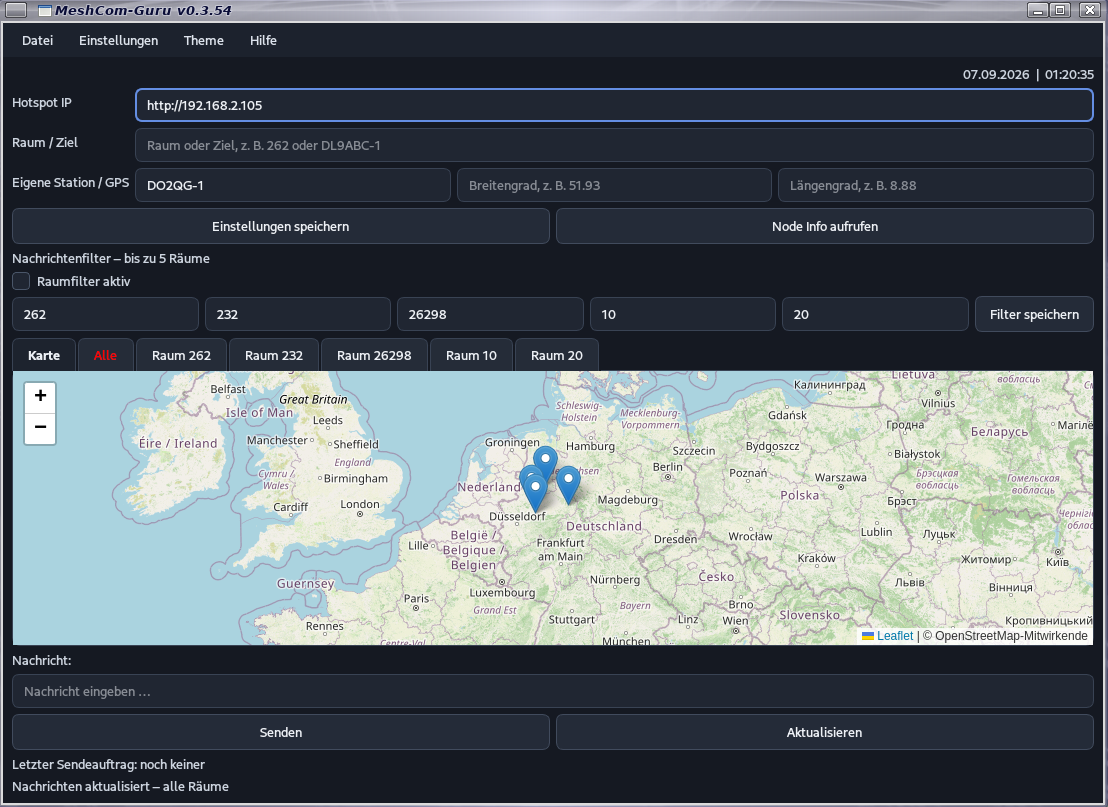
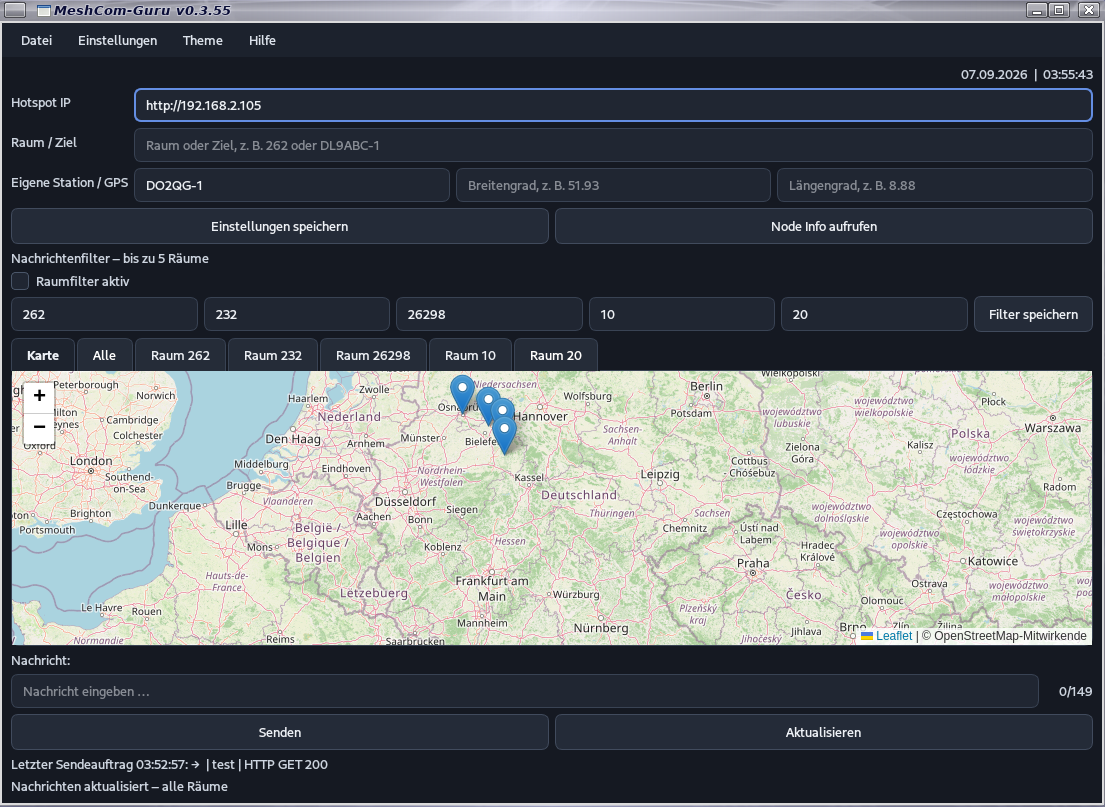
Add files via upload

diff --git a/ui/main_window.py b/ui/main_window.py
@@ -20,7 +20,7 @@ try:
     from PySide6.QtMultimedia import QSoundEffect
 except Exception:
     QSoundEffect = None
-from PySide6.QtGui import QAction, QTextCursor
+from PySide6.QtGui import QAction, QTextCursor, QDesktopServices
 from PySide6.QtWidgets import (
     QApplication,
     QComboBox,
@@ -235,7 +235,7 @@ class ChatView(QTextBrowser):
             call = value.rsplit("/", 1)[-1]
             self.callsignClicked.emit(call)
         elif value.startswith(("http://", "https://")):
-            QApplication.clipboard().setText(value)
+            QDesktopServices.openUrl(QUrl(value))
 
     def scroll_to_bottom(self):
         cursor = self.textCursor()
@@ -589,6 +589,17 @@ class MainWindow(QMainWindow):
 
         self.message_input = QLineEdit()
         self.message_input.setPlaceholderText("Nachricht eingeben …")
+        self.message_input.setMaxLength(149)
+
+        # Zeichenzähler für MeshCom-Nachrichten: maximal 149 Zeichen.
+        self.message_counter = QLabel("0/149")
+        self.message_counter.setAlignment(
+            Qt.AlignmentFlag.AlignRight | Qt.AlignmentFlag.AlignVCenter
+        )
+        self.message_counter.setMinimumWidth(48)
+        self.message_counter.setToolTip("Maximal 149 Zeichen")
+        self.message_input.textChanged.connect(self._update_message_counter)
+
         self.send_button = QPushButton("Senden")
         self.update_button = QPushButton("Aktualisieren")
         self.send_button.clicked.connect(self.send)
@@ -614,7 +625,12 @@ class MainWindow(QMainWindow):
         layout.addLayout(filter_box)
         layout.addWidget(self.tabs, 1)
         layout.addWidget(QLabel("Nachricht:"))
-        layout.addWidget(self.message_input)
+
+        message_row = QHBoxLayout()
+        message_row.addWidget(self.message_input, 1)
+        message_row.addWidget(self.message_counter)
+        layout.addLayout(message_row)
+
         layout.addLayout(buttons)
         layout.addWidget(self.send_log)
         layout.addWidget(self.status)
@@ -622,6 +638,14 @@ class MainWindow(QMainWindow):
         central = QWidget()
         central.setLayout(layout)
         self.setCentralWidget(central)
+
+    def _update_message_counter(self, text):
+        """Update the visible character counter for the 149-character limit."""
+        self.message_counter.setText(f"{len(text)}/149")
+        if len(text) >= 149:
+            self.message_counter.setToolTip("Maximale Länge erreicht: 149 Zeichen")
+        else:
+            self.message_counter.setToolTip(f"Noch {149 - len(text)} Zeichen frei")
 
     def _load_filter_fields(self, settings):
         for i, field in enumerate(self.filter_inputs, 1):
@@ -1464,7 +1488,29 @@ class MainWindow(QMainWindow):
                 return text
             return f'<a href="meshcom://call/{html.escape(text.upper())}">{html.escape(text)}</a>'
 
+        # Plain-Text-Internetlinks anklickbar machen. Bereits vorhandene HTML-Tags
+        # bleiben unangetastet. Satzzeichen am Ende werden nicht Teil des Links.
+        URL_RE = re.compile(r"https?://[^\s<>\"']+", re.IGNORECASE)
+
+        def link_url(match):
+            raw = match.group(0)
+            trailing = ""
+            while raw and raw[-1] in ".,!?;:)\\]}":
+                trailing = raw[-1] + trailing
+                raw = raw[:-1]
+            if not raw:
+                return match.group(0)
+            safe_url = html.escape(raw, quote=True)
+            return f'<a href="{safe_url}">{html.escape(raw)}</a>{html.escape(trailing)}'
+
         parts = re.split(r"(<[^>]+>)", block)
+        for i in range(0, len(parts), 2):
+            # URLs zuerst verlinken. Die anschließende Rufzeichen-Erkennung läuft
+            # nur noch außerhalb der erzeugten <a>-Tags.
+            parts[i] = URL_RE.sub(link_url, parts[i])
+        result_with_urls = "".join(parts)
+
+        parts = re.split(r"(<[^>]+>)", result_with_urls)
         for i in range(0, len(parts), 2):
             parts[i] = CALLSIGN_RE.sub(repl, parts[i])
         result = "".join(parts)
@@ -1906,7 +1952,9 @@ renderStations(initialStations);</script></body></html>"""
         if not text:
             self.status.setText("Keine Nachricht eingegeben")
             return
-
+        if len(text) > 149:
+            self.status.setText("Nachricht darf maximal 149 Zeichen lang sein")
+            return
 
         self.send_button.setEnabled(False)
         try:

diff --git a/version.py b/version.py
@@ -1,1 +1,1 @@
-VERSION = "0.3.54"
+VERSION = "0.3.55"

diff --git a/GITHUB_RELEASE.md b/GITHUB_RELEASE.md
@@ -1,24 +1,32 @@
-# GitHub-Release – MeshCom-Guru v0.3.54
+# GitHub-Release – MeshCom-Guru v0.3.55
 
 ## Release-Titel
-MeshCom-Guru v0.3.54
+MeshCom-Guru v0.3.55
 
 ## Tag
-v0.3.54
+v0.3.55
 
 ## Release-Asset
-`MeshCom-Guru_v0.3.54_GITHUB.zip`
+`MeshCom-Guru_v0.3.55_GITHUB.zip`
 
 ## Release-Hinweise
 
-MeshCom-Guru v0.3.54 ist der stabile Stand nach der erfolgreichen Korrektur des Tabs **Alle** und der Karten-/Koordinatenanzeige.
+MeshCom-Guru v0.3.55 baut auf dem stabilen v0.3.54-Stand auf und ergänzt die Begrenzung der Nachrichtenlänge auf **149 Zeichen**.
 
+### Neu in v0.3.55
+- Nachrichtenfeld auf maximal 149 Zeichen begrenzt.
+- Live-Zeichenzähler direkt rechts im Nachrichtenfeld (`0/149` bis `149/149`).
+- Zusätzliche Prüfung beim Senden gegen Nachrichten mit mehr als 149 Zeichen.
+- Internetlinks (`http://` und `https://`) im Chat sind anklickbar und öffnen den Standard-Webbrowser.
+
+### Erhaltener stabiler Funktionsumfang
 - Normale Raum-Chats funktionieren.
 - Private Nachrichten funktionieren.
 - Der Tab **Alle** zeigt Nachrichten nur einmal und chronologisch korrekt.
 - Eigene Nachrichten werden nicht doppelt angezeigt.
-- Koordinaten werden korrekt verarbeitet und auf der Karte als Marker angezeigt.
-- Die Karten- und Koordinatenfunktion wurde gemeinsam mit dem Chat erfolgreich getestet.
+- Koordinaten werden verarbeitet und auf der Karte als Marker angezeigt.
+- Node-Informationen und Kartenanzeige bleiben erhalten.
+- Linux- und Windows-Startdateien sowie Desktop-Launcher sind enthalten.
 
 ## Wichtig
-Dieses Paket enthält den vollständigen Projektordner `MeshCom/`, README, CHANGELOG, VERSION, `version.py`, Linux-/Windows-Startdateien, Desktop-Launcher, integrierte Hilfe/Info, PDF-Anleitung und alle benötigten Projektdateien.
+Dieses Paket enthält den vollständigen Projektordner `MeshCom/`, README, CHANGELOG, VERSION, `version.py`, Linux-/Windows-Startdateien, Desktop-Launcher, integrierte Hilfe/Info, PDF-Anleitung und die benötigten Projektdateien.

diff --git a/README.md b/README.md
@@ -1,14 +1,8 @@
 # MeshCom-Guru
 
-**Version 0.3.54**
+**Version 0.3.55**
 
 MeshCom-Guru ist eine eigenständige Anwendung zur Anzeige von MeshCom-Nachrichten, Node-Informationen und Positionsdaten.
-
-
-![MeshCom-Guru](meshcom-guru.png)
-
-[Github Seite](https://github.com/Angonikro/MeshCom-Guru/)
-
 
 ## Inhalt
 
@@ -22,6 +16,20 @@ MeshCom-Guru ist eine eigenständige Anwendung zur Anzeige von MeshCom-Nachricht
 - **Info**-Fenster mit Programmversion
 - Linux- und Windows-Startdateien
 - Desktop-Launcher für Linux
+- Nachrichtenfeld mit einer maximalen Länge von **149 Zeichen**
+- Live-Zeichenzähler im Nachrichtenfeld (`0/149` bis `149/149`)
+
+---
+
+# Nachrichtenlänge
+
+MeshCom-Nachrichten dürfen maximal **149 Zeichen** enthalten. Das Nachrichtenfeld begrenzt die Eingabe automatisch auf 149 Zeichen. Rechts im Eingabefeld zeigt ein Live-Zähler jederzeit die aktuelle Länge an, zum Beispiel `0/149`, `24/149`, `57/149` oder `149/149`.
+
+Damit ist sofort sichtbar, wie viele Zeichen noch zur Verfügung stehen.
+
+## Internetlinks im Chat
+
+Internetlinks in empfangenen Nachrichten werden automatisch als anklickbare Links dargestellt. Ein Klick auf einen Link mit `http://` oder `https://` öffnet die Adresse im Standard-Webbrowser des Systems.
 
 ---
 
@@ -188,7 +196,7 @@ Dort stehen zwei Funktionen zur Verfügung:
 Öffnet ein kleines Informationsfenster mit:
 
 **MeshCom-Guru**  
-**Version 0.3.54**
+**Version 0.3.52**
 
 **By Goldisoft 2026**
 
@@ -329,11 +337,9 @@ Die Projektdateien, Dokumentation, Startdateien, Desktop-Launcher,
 Anleitung und das Programm-Icon sind im Projekt enthalten.
 
 Die separate PDF-Anleitung liegt dem GitHub-Paket ebenfalls als
-`docs/MeshCom-Guru_Anleitung_v0.3.55.pdf` bei.
+`docs/MeshCom-Guru_Anleitung_v0.3.54.pdf` bei.
 
 
 ## Hilfe und Info
 
 In der Menüleiste gibt es **Hilfe → Anleitung** mit einer integrierten Kurzanleitung sowie **Hilfe → Info** mit Programmname, Version und Urheberhinweis.
-
-73 de DO2QG Andreas

diff --git a/CHANGELOG.md b/CHANGELOG.md
@@ -1,7 +1,16 @@
 # Changelog
 
+## v0.3.55 – 149-Zeichen-Begrenzung und Live-Zeichenzähler
+
+- Nachrichten können jetzt maximal **149 Zeichen** lang sein.
+- Das Nachrichten-Eingabefeld begrenzt die Eingabe automatisch auf 149 Zeichen.
+- Rechts im Eingabefeld wurde ein Live-Zeichenzähler ergänzt (`0/149`, `24/149`, `57/149` usw.).
+- Bei Erreichen von 149 Zeichen wird die maximale Länge sichtbar angezeigt.
+- Zusätzlich wird beim Senden geprüft, dass keine Nachricht länger als 149 Zeichen ist.
+- Internetlinks (`http://` und `https://`) im Chat werden automatisch anklickbar dargestellt und öffnen beim Anklicken den Standard-Webbrowser.
+- Die funktionierenden Chat-, Privatnachrichten-, **Alle**-, Node-Info- sowie Karten-/Koordinatenfunktionen bleiben erhalten.
+
 ## v0.3.54
-- Neu GUI Oberfläche
 - Tab **Alle** wird aus dem aktuellen WebService-Nachrichtenstrom aufgebaut.
 - Jede Nachricht wird dort nur einmal übernommen; Raum- und Privat-Tabs bleiben unverändert.
 - Die lokale Sofortkopie eigener Sendungen wurde entfernt, damit normale und private eigene Nachrichten nicht doppelt unter **Alle** erscheinen.
